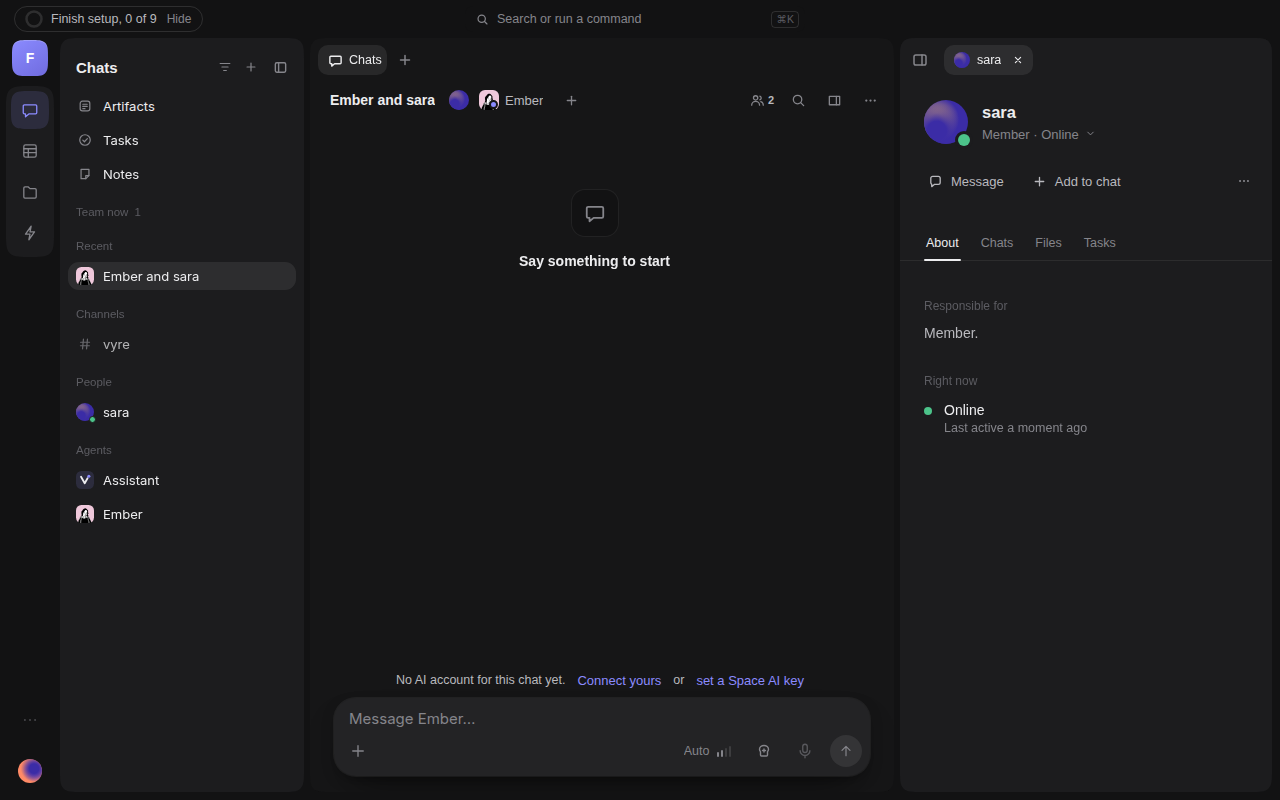
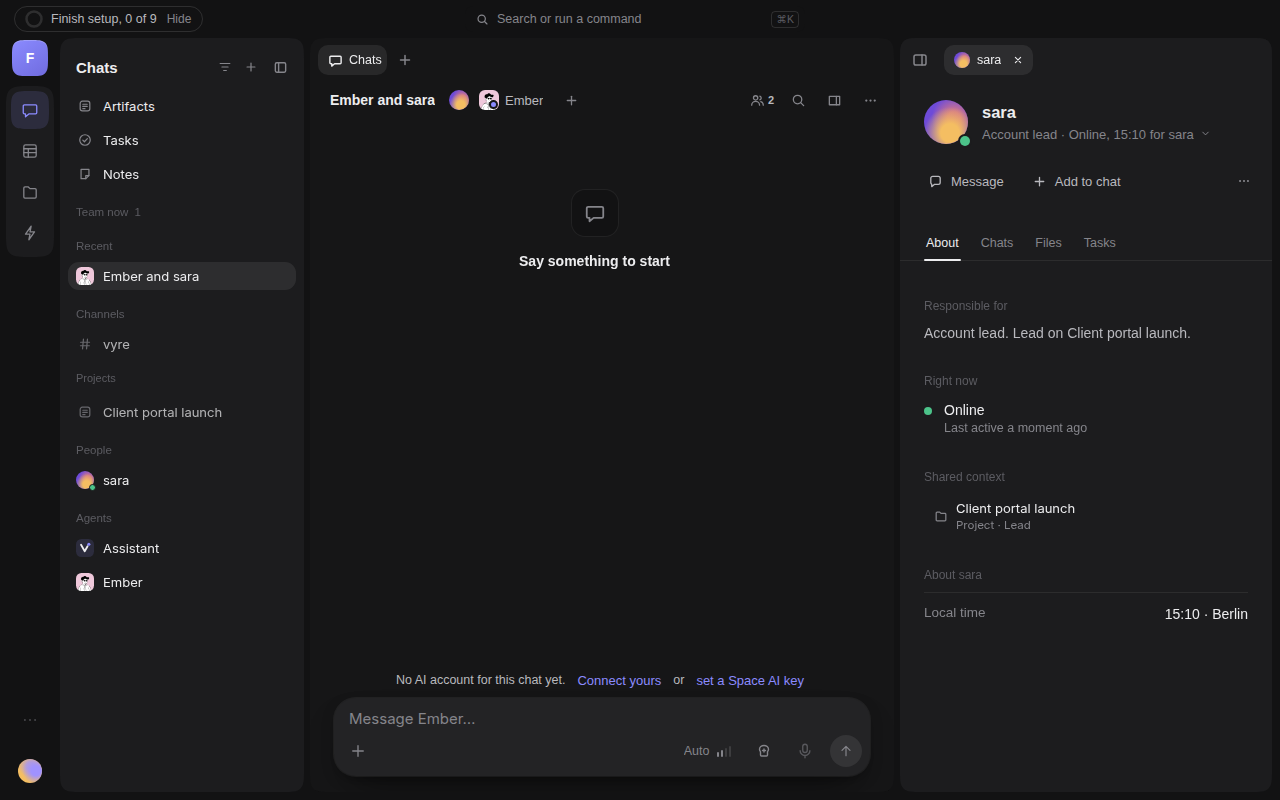
fix(chats): person profile dot, Shared context, phone page with back arrow

diff --git a/apps/app/src/places/chats/rightpane/PersonProfile.tsx b/apps/app/src/places/chats/rightpane/PersonProfile.tsx
@@ -35,6 +35,8 @@ export interface PersonProfileProps {
   /** Opens the Add people and agents sheet on the open chat; without it the third action is Mention. */
   onAdd?: (() => void) | undefined;
   openThread?(threadId: string): void; openFile?(fileId: string): void; openTask?(taskId: string): void;
+  /** Opens a project the two of you can see (Shared context). */
+  openProject?(projectId: string): void;
   initialTab?: PersonTab;
 }
 
@@ -65,7 +67,7 @@ export function PersonProfile(p: PersonProfileProps): ReactElement {
   const first = p.name.split(/\s+/)[0] ?? p.name;
   const presence = useRead<PresenceOut | undefined>(p.call, "devices.presence", { people: [p.id] }, (o) => (o as CapMap["devices.presence"]["out"]).people[0]);
   const pub = useRead<PublicOut>(p.call, "settings.public_of", { personId: p.id }, (o) => o as PublicOut);
-  const roles = useRead<{ project: string; role: string }[]>(p.call, "projects.roles_of", { personId: p.id }, (o) => (o as CapMap["projects.roles_of"]["out"]).roles.map((r) => ({ project: r.title, role: ROLE_WORD[r.role] ?? r.role })));
+  const roles = useRead<{ id: string; project: string; role: string }[]>(p.call, "projects.roles_of", { personId: p.id }, (o) => (o as CapMap["projects.roles_of"]["out"]).roles.map((r) => ({ id: r.projectId, project: r.title, role: ROLE_WORD[r.role] ?? r.role })));
   const known = useRead<string[]>(p.call, "memory.profile.get", { personId: p.id }, (o) => publicLines(o as CapMap["memory.profile.get"]["out"]));
   const state = presence?.state as PresenceState | undefined;
   const time = localTime(p.now(), pub?.timezone);
@@ -101,7 +103,7 @@ export function PersonProfile(p: PersonProfileProps): ReactElement {
 const label = (t: string): ReactElement => <Text key={t} style={st.label}>{t}</Text>;
 const kv = (k: string, v: string | undefined): ReactElement | null => (v === undefined || v === "" ? null : <View key={k} style={st.kv}><Text style={st.k}>{k}</Text><Text style={[st.v, st.vEnd]}>{v}</Text></View>);
 
-function About(p: PersonProfileProps & { known: readonly string[]; roles: readonly { project: string; role: string }[]; first: string; state: PresenceState | undefined; lastSeenAt: number | undefined; pub: PublicOut | null; time: string | undefined }): ReactElement {
+function About(p: PersonProfileProps & { known: readonly string[]; roles: readonly { id: string; project: string; role: string }[]; first: string; state: PresenceState | undefined; lastSeenAt: number | undefined; pub: PublicOut | null; time: string | undefined }): ReactElement {
   const roles = p.roles;
   const resp = responsibleFor(p.title ?? p.pub?.title, roles);
   const away = p.state === "away";
@@ -110,6 +112,9 @@ function About(p: PersonProfileProps & { known: readonly string[]; roles: readon
     <View testID="person-about">
       {label("Responsible for")}<Text testID="person-resp" style={st.body14}>{resp}</Text>
       {p.state !== undefined ? <>{label("Right now")}<View style={st.now}><View style={[st.dot, { backgroundColor: (away ? "var(--warn)" : p.state === "online" ? "var(--ok)" : "var(--ink-4)") as string }]} /><View><Text style={st.v}>{presenceWord(p.state)}</Text>{now ? <Text style={st.sub}>{now}</Text> : null}</View></View></> : null}
+      {p.roles.length > 0 ? <>{label("Shared context")}{p.roles.map((r) => (
+        <Row key={r.id} id={`person-project-${r.id}`} title={r.project} note={`Project · ${r.role}`} leading={<LeadIcon name="folder" />} onPress={() => p.openProject?.(r.id)} />
+      ))}</> : null}
       {p.pub?.timezone || p.pub?.hours || p.pub?.pronouns || p.known.length > 0 ? label(`About ${p.first}`) : null}
       {kv("Local time", p.time && p.pub?.timezone ? `${p.time} · ${cityOf(p.pub.timezone)}` : undefined)}
       {kv("Working hours", p.pub?.hours ? `${hoursWords(p.pub.hours)}, ${p.first}'s time` : undefined)}

diff --git a/apps/app/src/places/chats/mounts/ChatsMounted.tsx b/apps/app/src/places/chats/mounts/ChatsMounted.tsx
@@ -10,6 +10,7 @@ import type { ImportedData } from "../imported/ImportedSession.tsx";
 import { useCallback, useEffect, useMemo, useRef, useState, useSyncExternalStore } from "react";
 import type { ReactElement } from "react";
 import { StyleSheet, Text, View, useWindowDimensions } from "react-native";
+import { PhoneProfile } from "./PhoneProfile.tsx";
 import { SidePane } from "../../../../../../ui/src/SidePane/index.tsx";
 import type { VirtualWindow } from "../../../../../../ui/src/VirtualList/index.tsx";
 import type { CapMap } from "../../../../../../generated/types.ts";
@@ -390,7 +391,7 @@ export function ChatsMounted({ rt, hash = "", initial, window, opened, onSwitch,
       onMention={() => fill.set(`@${nameOf(rightTab.id)} `)}
       onEdit={() => act({ t: "agent-form", agentId: rightTab.id })}
       agentPane={agentTabData}
-      person={{ now: Date.now, ...(phone ? { dial: (n: string) => phone.dial(n) } : {}), ...(threadId !== null ? { onAdd: () => add.open({ threadId }) } : {}), openThread: (id) => go.thread(id), openFile: (id) => rt.open({ subject: { type: "file", id } }), openTask: openSideTask, copy: (text) => { copy(text); setLine("Copied the name"); } }}
+      person={{ now: Date.now, ...(phone ? { dial: (n: string) => phone.dial(n) } : {}), ...(threadId !== null ? { onAdd: () => add.open({ threadId }) } : {}), openThread: (id) => go.thread(id), openFile: (id) => rt.open({ subject: { type: "file", id } }), openProject: (id) => rt.open({ subject: { type: "project", id } }), openTask: openSideTask, copy: (text) => { copy(text); setLine("Copied the name"); } }}
     />
   ) : null;
   let right: ReactElement | null = null;
@@ -419,16 +420,20 @@ export function ChatsMounted({ rt, hash = "", initial, window, opened, onSwitch,
     );
   } else if (shown.pane && paneCtx && route.view === "chat") {
     right = <View style={st.pane}><AgentPane data={paneFull ?? paneCtx} open onToggle={go.togglePane} {...(window ? { window } : {})} extra={{ tabs: rightSpecs, active: rightOn, onSelect: setRightOn, onClose: closeRight, body: rightBody }} /></View>;
+  } else if (rightOn !== null && narrow) {
+    // a profile on a phone is a full-screen page with a back arrow and the name, over the bottom nav (PhoneProfile)
+    const t = rightTab;
+    right = <PhoneProfile title={t === undefined ? "Profile" : t.kind === "details" ? t.title : t.kind === "assistant" ? "Assistant" : nameOf(t.id)} onBack={() => closeRight(rightOn)}>{rightBody}</PhoneProfile>;
   } else if (rightOn !== null) {
-    // a profile on a phone is the full-screen sheet, like the task and the terminal
     right = (
-      <View testID="chats-profile-pane" style={narrow ? st.terminalFull : st.pane}>
-        <SidePane paneKey="chats-right-pane" toggle={{ open: true, onPress: () => setRightOn(null) }} title="Profile" tabs={rightSpecs} activeTab={rightOn} onSelectTab={setRightOn} onCloseTab={closeRight} defaultWidth={narrow ? width : 372} {...(narrow ? { max: 1 } : {})}>
+      <View style={st.pane}>
+        <SidePane paneKey="chats-right-pane" toggle={{ open: true, onPress: () => setRightOn(null) }} title="Profile" tabs={rightSpecs} activeTab={rightOn} onSelectTab={setRightOn} onCloseTab={closeRight} defaultWidth={372}>
           {rightBody}
         </SidePane>
       </View>
     );
   }
+
 
   const showMain = !(narrow && right !== null);
   return (

diff --git a/test/person-profile.live.test.ts b/test/person-profile.live.test.ts
@@ -17,6 +17,11 @@ test("person profile, team: pressing a person in the chat's People popover opens
     const agent = (await w.owner.ok("agents.create", { name: "Ember", role: "You help.", idempotencyKey: "pf-agent" })).agent.agentId as string;
     const threadId = (await w.owner.ok("chat.start", { kind: "chat", agentIds: [agent], idempotencyKey: "pf-chat" })).thread.threadId as string;
     await w.owner.ok("threads.members.add", { threadId, personId: sara.id });
+    // what Sara set about herself, and a project the two can see: the role line, About and Shared context draw from these
+    await sara.ok("settings.set", { key: "profile.timezone", value: "Europe/Berlin" });
+    await sara.ok("settings.set", { key: "profile.title", value: "Account lead" });
+    const projectId = (await w.owner.ok("projects.create", { type: "project", title: "Client portal launch", idempotencyKey: "pf-project" })).projectId as string;
+    await w.owner.ok("projects.members.set", { projectId, principal: sara.id, role: "lead" });
     const me = await seat(s, w.owner, "Owner");
 
     await open(me, s, `/chat#screen=chats.conversation&threadId=${threadId}`);
@@ -28,6 +33,8 @@ test("person profile, team: pressing a person in the chat's People popover opens
     assert.ok(await me.page.getByTestId("person-header").count() >= 1, "the person header");
     assert.ok(await me.page.getByTestId("profile-message").count() + (await me.page.getByTestId("person-header").getByText("Message").count()) >= 1, "Message is offered");
     assert.ok(await me.page.getByTestId("participants-button").count() >= 1, "the chat is still open beside it");
+    assert.match(await me.page.getByTestId("person-header").innerText(), /Account lead.*for sara/i, "the role line carries their local time");
+    await me.page.getByTestId(`row-person-project-${projectId}`).waitFor({ timeout: 15_000 });   // Shared context lists the project you both see
     await me.page.waitForTimeout(1500);
     await shoot(me.page, OUT, "chat-person-wide");
 
@@ -37,8 +44,13 @@ test("person profile, team: pressing a person in the chat's People popover opens
     await me.page.getByTestId("participants-button").click();
     await me.page.getByTestId(`people-row-${sara.id}`).click();
     await me.page.getByTestId(`profile-${sara.id}`).waitFor({ timeout: 15_000 });
+    assert.ok(await me.page.getByTestId("phone-profile-back").count() === 1, "a back arrow");
+    // where the bottom nav would be, the page the profile draws is on top
+    assert.equal(await me.page.evaluate("(function(){var e=document.elementFromPoint(195,window.innerHeight-20);return !!(e&&e.closest('[data-testid=phone-profile]'))})()"), true, "the profile covers the bottom nav");
     await me.page.waitForTimeout(1500);
     await shoot(me.page, OUT, "chat-person-phone");
+    await me.page.getByTestId("phone-profile-back").click();
+    await me.page.getByTestId("phone-profile").waitFor({ state: "detached", timeout: 10_000 });
     assert.deepEqual(me.errors, [], "no page errors");
   } finally { await s.close(); }
 });

diff --git a/apps/app/src/places/chats/mounts/PhoneProfile.tsx b/apps/app/src/places/chats/mounts/PhoneProfile.tsx
@@ -1,0 +1,31 @@
+// A profile on a phone: a full-screen page over the shell, with a back arrow and the person's name in its own header. It sits in the shared Overlay layer, so the bottom nav, the tab chip and the
+// pane toggle of the computer's side pane are not drawn above it (owner, 4 Nov: phone sheets have a back arrow and a title and no bottom nav).
+import type { ReactElement, ReactNode } from "react";
+import { Pressable, StyleSheet, Text, View } from "react-native";
+import { Overlay } from "../../../../../../ui/src/Overlay/index.tsx";
+import { Glyph } from "../conversation/parts.tsx";
+
+export function PhoneProfile({ title, onBack, children }: { title: string; onBack(): void; children: ReactNode }): ReactElement {
+  return (
+    <Overlay>
+      <View testID="phone-profile" role="dialog" aria-label={title} aria-modal style={st.page}>
+        <View style={st.head}>
+          <Pressable accessibilityRole="button" accessibilityLabel="Back" onPress={onBack} testID="phone-profile-back" style={st.back}>
+            <Glyph name="back" size={18} color="var(--accent)" />
+          </Pressable>
+          <Text accessibilityRole="header" numberOfLines={1} style={st.title}>{title}</Text>
+          <View style={st.back} />
+        </View>
+        <View style={st.body}>{children}</View>
+      </View>
+    </Overlay>
+  );
+}
+
+const st = StyleSheet.create({
+  page: { position: "fixed" as "absolute", left: 0, top: 0, right: 0, bottom: 0, backgroundColor: "var(--side)" as string, paddingTop: "env(safe-area-inset-top)" as unknown as number },
+  head: { flexDirection: "row", alignItems: "center", height: 48, paddingHorizontal: 6, borderBottomWidth: 1, borderBottomColor: "var(--line)" as string },
+  back: { width: 40, height: 40, alignItems: "center", justifyContent: "center" },
+  title: { flex: 1, textAlign: "center", fontSize: 16, fontWeight: "600", color: "var(--ink)" as string },
+  body: { flex: 1, minHeight: 0 },
+});

diff --git a/apps/app/src/places/chats/rightpane/ProfileHeader.tsx b/apps/app/src/places/chats/rightpane/ProfileHeader.tsx
@@ -67,7 +67,7 @@ const st = StyleSheet.create({
   root: { paddingHorizontal: 24, paddingTop: 24, paddingBottom: 6, gap: 20 },
   top: { flexDirection: "row", alignItems: "flex-start", gap: 14 },
   face: { width: 44, height: 44, flexGrow: 0, flexShrink: 0 },
-  dot: { position: "absolute", right: -2, bottom: -2, width: 12, height: 12, borderRadius: 6, boxShadow: "0 0 0 3px var(--side)" } as object,
+  dot: { position: "absolute", right: -2, bottom: -2, width: 10, height: 10, borderRadius: 5, boxShadow: "0 0 0 2px var(--side)" } as object,
   text: { flex: 1, minWidth: 0, paddingTop: 1 },
   name: { fontSize: 16.5, lineHeight: 22, fontWeight: "600", color: "var(--ink)" as string },
   lineBox: { flexDirection: "row", alignItems: "flex-start", gap: 6, marginTop: 2, maxWidth: "100%" },

diff --git a/apps/app/src/places/chats/rightpane/ProfilePane.tsx b/apps/app/src/places/chats/rightpane/ProfilePane.tsx
@@ -47,7 +47,7 @@ export interface ProfileProps {
   /** A person's pane: what the shell can do beside Message and Mention, and where its lists open. */
   /** An agent opened from a face: the full agent pane (About, Computer, Chats, Files, Terminal) for it, drawn inside this tab. Absent: the short body. */
   agentPane?: ChatRightPaneData | null | undefined;
-  person?: Pick<PersonProfileProps, "now" | "dial" | "onAdd" | "openThread" | "openFile" | "openTask" | "copy"> | undefined;
+  person?: Pick<PersonProfileProps, "now" | "dial" | "onAdd" | "openThread" | "openFile" | "openProject" | "openTask" | "copy"> | undefined;
 }
 
 export function ProfilePane({ tab, name, call, onMessage, onMention, onEdit, person: more, agentPane }: ProfileProps): ReactElement {

diff --git a/changelog.d/wip-l-share2.md b/changelog.d/wip-l-share2.md
@@ -16,3 +16,4 @@
 - Reach: a person opened from the people popover is read as their public profile (memory.profile.get) before it opens.
 - Reach: a refused person profile shows "You can't see this person's profile" and opens nothing; an allowed one opens in Chats.
 - Person profile: pressing a person in the chat People popover (or opening a person link) opens their public profile in the chat's right pane. About adds the public lines of memory.profile.get; the private part never reaches the pane.
+- Person profile: presence dot 10 px with a 2 px ring; About lists Shared context (projects you both can see, each opens the project); on a phone the profile is a full-screen page with a back arrow and the name over the bottom nav.
